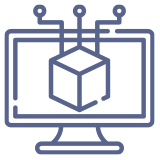
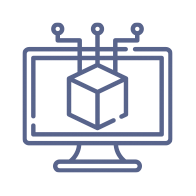
FIX: skills img

diff --git a/src/scss/modules/sections.scss b/src/scss/modules/sections.scss
@@ -5,7 +5,7 @@ section {
 
 .section__header{
   @include flex($direction: column, $justify: space-around );
-  min-height: 100vh;
+  height: 100vh;
   overflow: hidden;
   position: relative;
   background:rgba(7, 37, 60, 0.45);
@@ -19,7 +19,7 @@ section {
 }
 
 .section__presentation img{
-  min-width: 500px;
+  width: 500px;
   justify-self: left;
   margin: 0 auto;
   opacity: .8;

diff --git a/src/scss/modules/_card.scss b/src/scss/modules/_card.scss
@@ -21,6 +21,6 @@
 
 .card .bold {
   color: $primaryColor;
-  font-size: 1.8em;
+  font-size: 1.5em;
   margin-bottom: .6em;
 }

diff --git a/src/scss/modules/_skills.scss b/src/scss/modules/_skills.scss
@@ -28,5 +28,5 @@
 
 .skills__el img{
   margin: 0 10px;
-  width: 86px;
+  width: 100px;
 }
